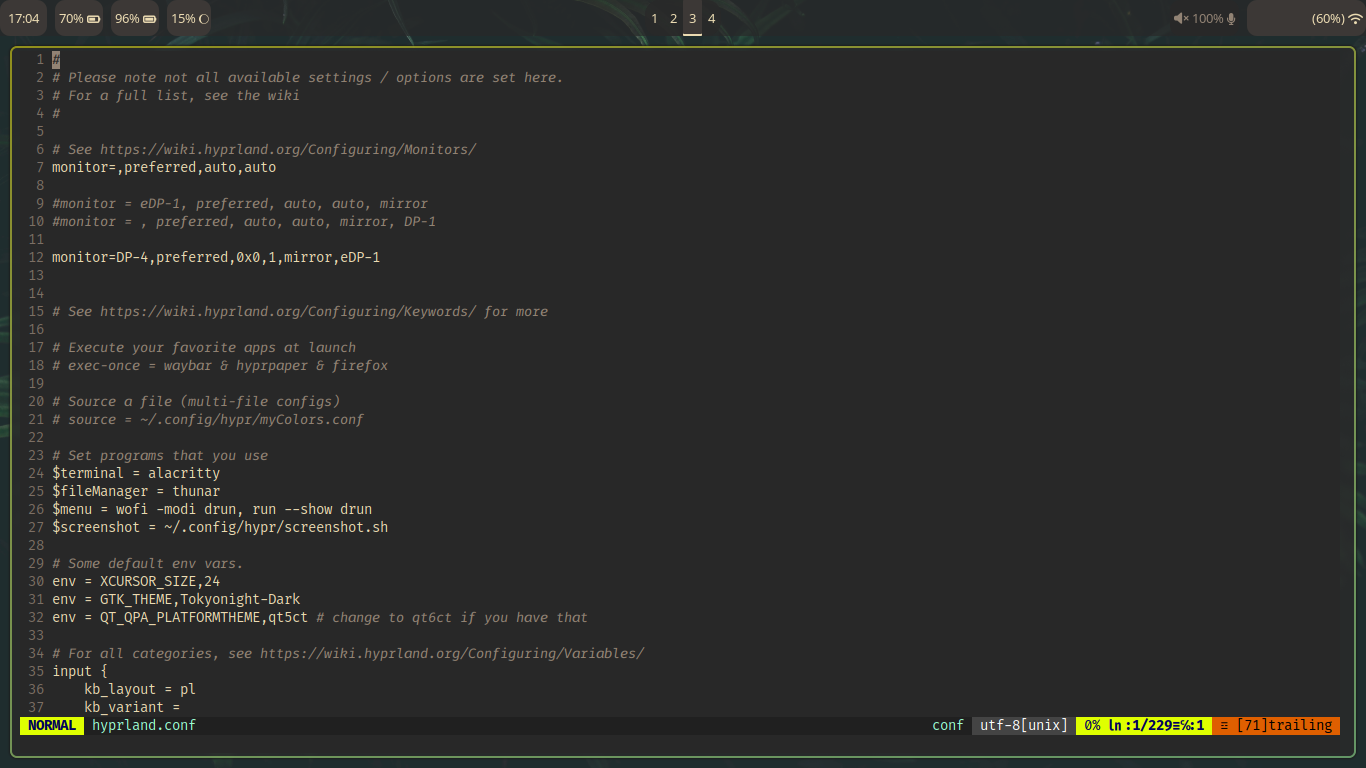
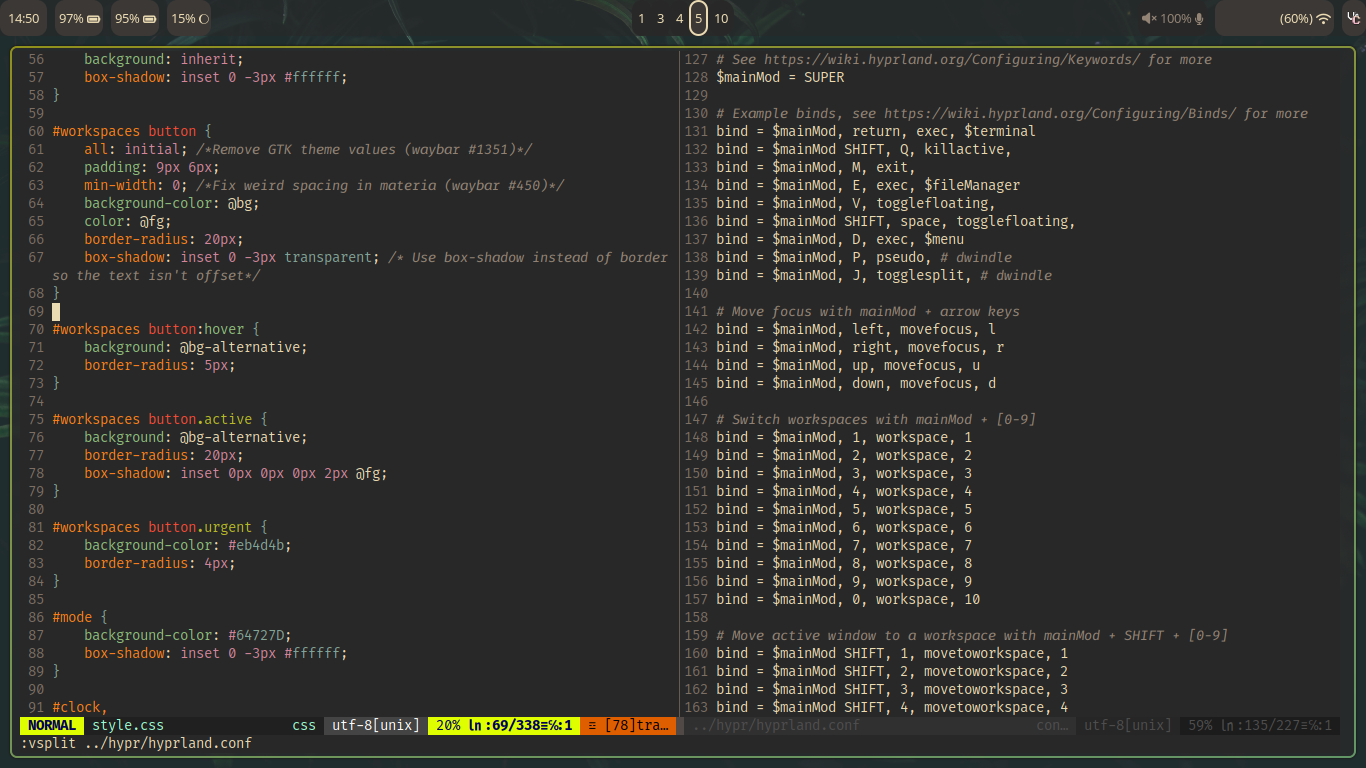
rounded corners on active workspaces

diff --git a/.config/waybar/style.css b/.config/waybar/style.css
@@ -2,7 +2,7 @@
 @define-color fg rgba(235, 219, 178, 1);
 @define-color disabled-fg rgba(146, 131, 116, 1);
 @define-color bg rgba(40, 40, 40, 1);
-@define-color bg-semitransparent rgba(40, 40, 40, 0.7);
+@define-color bg-semitransparent rgba(40, 40, 40, 0.6);
 @define-color bg-alternative rgba(60, 56, 54, 1);
 @define-color bg-alternative-semitransparent rgba(60, 56, 54, 0.5);
 @define-color fg-alternative rgba(235, 219, 178, 1);
@@ -61,7 +61,7 @@ button:hover {
     all: initial; /*Remove GTK theme values (waybar #1351)*/
     padding: 9px 6px;
     min-width: 0; /*Fix weird spacing in materia (waybar #450)*/
-    background-color: transparent;
+    background-color: @bg;
     color: @fg;
     border-radius: 20px;
     box-shadow: inset 0 -3px transparent; /* Use box-shadow instead of border so the text isn't offset*/
@@ -74,8 +74,8 @@ button:hover {
 
 #workspaces button.active {
     background: @bg-alternative;
-    border-radius: 1px;
-    box-shadow: inset 0 -2px @fg; 
+    border-radius: 20px;
+    box-shadow: inset 0px 0px 0px 2px @fg; 
 }
 
 #workspaces button.urgent {
